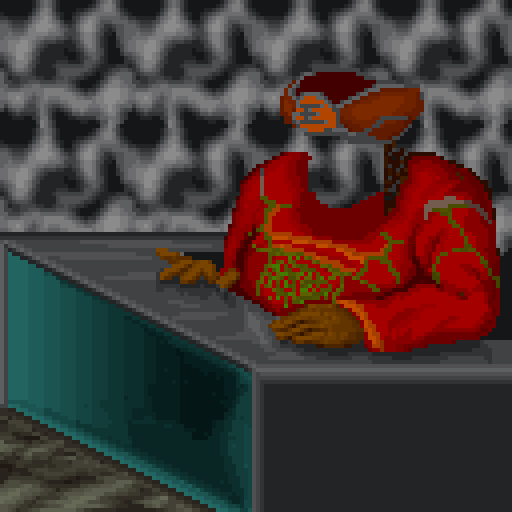
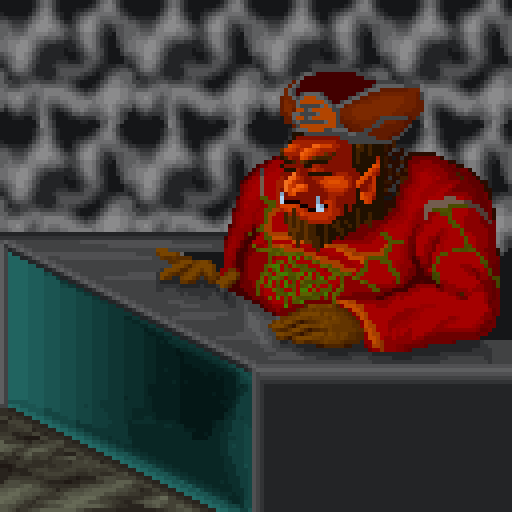
閻魔の修正

Changed region(s): [[0.5312, 0.25, 0.75, 0.5]]

diff --git a/Solution/BossEnma.cpp b/Solution/BossEnma.cpp
@@ -1,5 +1,9 @@
 #include "BossEnma.h"
+#include "EnemyBowDemon.h"
+#include "EnemyNoFace.h"
+#include "EnemyOnyudo.h"
 
+static const int WAIT_ANIME_TIME = 10;
 static const int CHIP_SIZE = 128;
 static const int OFFSET_X = 192 + CHIP_SIZE;
 static const int OFFSET_Y = 512 - 265;
@@ -9,7 +13,8 @@ static const int CREATE_COUNT_ENEMY = 60;
 static const double RADIUS = 12;
 
 BossEnma::BossEnma( EnemyStockPtr stock, int x ) :
-Boss( x + OFFSET_X, OFFSET_Y, CHIP_SIZE, HP, POW ) {
+Boss( x + OFFSET_X, OFFSET_Y, CHIP_SIZE, HP, POW ),
+_stock( stock ) {
 }
 
 
@@ -17,10 +22,38 @@ BossEnma::~BossEnma( ) {
 }
 
 void BossEnma::act( ) {
-	setChipGraph( GRAPH_BOSS, 0, 0 );
+	updateChip( );
 }
 
 void BossEnma::attack( ) {
+	const int pattern = 3;
+	if ( _count % CREATE_COUNT_ENEMY == 0 ) {
+		int x = getX( ) - 200;
+		int y = getY( ) + 100;
+		
+		switch ( rand( ) % pattern ) {
+		case 0:
+			_stock->addEnemy( EnemyPtr( new EnemyBowDemon( _stock, x, y ) ) );
+			break;
+		case 1:
+			_stock->addEnemy( EnemyPtr( new EnemyNoFace( x, y ) ) );
+			break;
+		case 2:
+			_stock->addEnemy( EnemyPtr( new EnemyOnyudo( x, y ) ) );
+			break;
+		}
+	}
+}
+
+void BossEnma::updateChip( ) {
+	const int WIDTH_NUM = 2;
+	const int MOTION[ ] = { 0, 2, 1, 2 };
+	int pattern = sizeof( MOTION ) / sizeof( MOTION[ 0 ] );
+	int u = MOTION[ ( _count / WAIT_ANIME_TIME ) % pattern ] % WIDTH_NUM;
+	int v = MOTION[ ( _count / WAIT_ANIME_TIME ) % pattern ] / WIDTH_NUM;
+	_count++;
+
+	setChipGraph( GRAPH_BOSS, u, v );
 }
 
 double BossEnma::getOverlappedRadius( ) const {

diff --git a/Solution/BossEnma.h b/Solution/BossEnma.h
@@ -9,6 +9,7 @@ public:
 private:
 	void act( );
 	void attack( );
+	void updateChip( );
 	double getOverlappedRadius( ) const;
 private:
 	EnemyStockPtr _stock;
